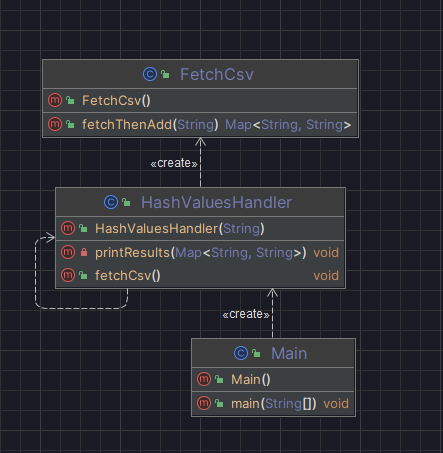
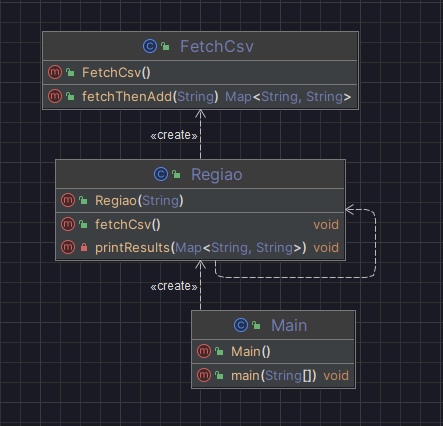
New set of exercises -done-

diff --git a/Programação 2/labWeek6/atividade2/src/handlers/ContactHandler.java b/Programação 2/labWeek6/atividade2/src/handlers/ContactHandler.java
@@ -1,0 +1,110 @@
+package handlers;
+
+import entities.Contato;
+
+import javax.swing.*;
+import java.io.File;
+import java.io.FileWriter;
+import java.io.IOException;
+import java.util.HashMap;
+import java.util.Map;
+import java.util.Scanner;
+
+class ContactHandler {
+
+    private final HashMap<String, Contato> hashContatos;
+    private final String FILE_NAME = "contatos.txt";
+
+    protected ContactHandler() {
+        hashContatos = new HashMap<>();
+        carregarContatos();
+    }
+
+    protected void carregarContatos() {
+        try {
+            File file = new File(FILE_NAME);
+            if (!file.exists()) {
+                file.createNewFile();
+            }
+
+            Scanner readFile = new Scanner(file);
+            while (readFile.hasNext()) {
+                String line = readFile.nextLine();
+                String[] parts = line.split(",");
+                if (parts.length == 2) {
+                    String nome = parts[0].trim();
+                    String telefone = parts[1].trim();
+                    Contato contactToLoad = new Contato(nome, telefone);
+                    hashContatos.put(nome, contactToLoad);
+                }
+            }
+            readFile.close();
+        } catch (IOException e) {
+            JOptionPane.showMessageDialog(null,"Error ocurred while fetching data. "+e.getMessage());
+        }
+    }
+
+    protected void adicionarContatos() {
+        String nome = JOptionPane.showInputDialog("Input the contact name to be added: ");
+
+        String telefone = JOptionPane.showInputDialog("Now, the phone-number: ");
+
+        Contato contactToAdd = new Contato(nome, telefone);
+
+        hashContatos.put(nome, contactToAdd);
+
+        salvarContatos();
+
+        JOptionPane.showMessageDialog(null,"Contact successfully added!");
+    }
+
+    protected void listarContatos() {
+        StringBuilder listaContatos = new StringBuilder();
+        for (Map.Entry<String, Contato> entry : hashContatos.entrySet()) {
+            String nome = entry.getKey();
+            String telefone = entry.getValue().getTelefone();
+            listaContatos.append(nome).append(": ").append(telefone).append("\n");
+        }
+        JOptionPane.showMessageDialog(null,"Contact List:\n"+ listaContatos);
+    }
+
+    protected void consultarContatos() {
+        String nome = JOptionPane.showInputDialog("Insert the contact's name: ");
+
+        Contato contactToLookUp = hashContatos.get(nome);
+
+        if (contactToLookUp != null) {
+            JOptionPane.showMessageDialog(null,contactToLookUp.getNome()+" phone-number is: "+contactToLookUp.getTelefone());
+        } else {
+            JOptionPane.showMessageDialog(null,"Contact not found.");
+        }
+    }
+
+    protected void removerContatos() {
+        String nome = JOptionPane.showInputDialog("Insert the contact's name to be removed: ");
+
+        Contato contactToRemove = hashContatos.get(nome);
+        hashContatos.remove(nome);
+
+        if (contactToRemove != null) {
+            salvarContatos();
+            JOptionPane.showMessageDialog(null,"Contact successfully removed!");
+        } else {
+            JOptionPane.showMessageDialog(null,"Contact not found.");
+        }
+    }
+
+    private void salvarContatos() {
+        try {
+            FileWriter writer = new FileWriter(FILE_NAME);
+            for (Map.Entry<String, Contato> entry : hashContatos.entrySet()) {
+                String nome = entry.getKey();
+                String telefone = entry.getValue().getTelefone();
+                writer.write(nome+", "+telefone+"\n");
+            }
+            writer.close();
+        } catch (IOException e) {
+            JOptionPane.showMessageDialog(null,"Error ocurred while writing to file. "+e.getMessage());
+        }
+    }
+}

diff --git a/Programação 2/labWeek6/atividade2/src/handlers/MenuHandler.java b/Programação 2/labWeek6/atividade2/src/handlers/MenuHandler.java
@@ -1,0 +1,35 @@
+package handlers;
+
+import javax.swing.*;
+
+public class MenuHandler {
+    ContactHandler ch = new ContactHandler();
+
+    public void showMenu() {
+        int userChoice = 0;
+        String menu = """
+                    ----- MENU -----
+                    1. Show all contacts
+                    2. Add a new contact
+                    3. Lookup a contact
+                    4. Remove a contact
+                    5. Exit""";
+
+        while (userChoice != 5) {
+            String optionChosen = JOptionPane.showInputDialog(null, menu + "\nChoose a option: ");
+
+            try {
+                userChoice = Integer.parseInt(optionChosen);
+                switch (userChoice) {
+                    case 1 -> ch.listarContatos();
+                    case 2 -> ch.adicionarContatos();
+                    case 3 -> ch.consultarContatos();
+                    case 4 -> ch.removerContatos();
+                    case 5 -> JOptionPane.showMessageDialog(null, "Shutting down. Have a nice day!");
+                }
+            } catch (NumberFormatException e) {
+                JOptionPane.showMessageDialog(null,"Invalid Option. Double check your parameters!", "Error", JOptionPane.ERROR_MESSAGE);
+            }
+        }
+    }
+}

diff --git a/Programação 2/labWeek6/atividade1/src/HandlerClasses/Regiao.java b/Programação 2/labWeek6/atividade1/src/HandlerClasses/Regiao.java
@@ -1,0 +1,30 @@
+package handlerClasses;
+
+import readerClasses.FetchCsv;
+
+import javax.swing.*;
+import java.util.Map;
+
+public class Regiao {
+
+    private final String filePath;
+
+    public Regiao(String filePath) {
+        this.filePath = filePath;
+    }
+
+    public void fetchCsv() {
+        FetchCsv fetch = new FetchCsv();
+        Map<String, String> regionsAverage = fetch.fetchThenAdd(filePath);
+        printResults(regionsAverage);
+    }
+
+    private void printResults(Map<String, String> regionsAverage) {
+        for (Map.Entry<String, String> entry : regionsAverage.entrySet()) {
+            String region = entry.getKey();
+            String average = entry.getValue();
+
+            JOptionPane.showMessageDialog(null,"Region: "+region+"\nAverage: "+average);
+        }
+    }
+}

diff --git a/Programação 2/labWeek6/atividade1/src/Main.java b/Programação 2/labWeek6/atividade1/src/Main.java
@@ -1,4 +1,4 @@
-import HandlerClasses.HashValuesHandler;
+import handlerClasses.Regiao;
 
 import javax.swing.*;
 
@@ -9,7 +9,7 @@ public class Main {
 
         if (JOptionPane.YES_OPTION == input) {
             String filePath = JOptionPane.showInputDialog(null, "Insert your filepath and name:");
-            HashValuesHandler hv = new HashValuesHandler(filePath);
+            Regiao hv = new Regiao(filePath);
             hv.fetchCsv();
         } else {
             JOptionPane.showMessageDialog(null, "Shutting down.\nHave a nice day :)");

diff --git a/Programação 2/labWeek6/atividade2/src/entities/Contato.java b/Programação 2/labWeek6/atividade2/src/entities/Contato.java
@@ -1,0 +1,20 @@
+package entities;
+
+public class Contato {
+
+    private String nome;
+    private final String telefone;
+
+    public Contato(String nome, String telefone) {
+        this.nome = nome;
+        this.telefone = telefone;
+    }
+
+    public String getTelefone() {
+        return telefone;
+    }
+
+    public String getNome() {
+        return nome;
+    }
+}

diff --git a/Programação 2/labWeek6/atividade2/src/Main.java b/Programação 2/labWeek6/atividade2/src/Main.java
@@ -1,0 +1,8 @@
+import handlers.MenuHandler;
+
+public class Main {
+    public static void main(String[] args) {
+        MenuHandler menuHandler = new MenuHandler();
+        menuHandler.showMenu();
+    }
+}

diff --git a/Programação 2/labWeek6/atividade1/src/ReaderClasses/FetchCsv.java b/Programação 2/labWeek6/atividade1/src/ReaderClasses/FetchCsv.java
@@ -1,4 +1,4 @@
-package ReaderClasses;
+package readerClasses;
 
 import java.io.BufferedReader;
 import java.io.FileReader;
